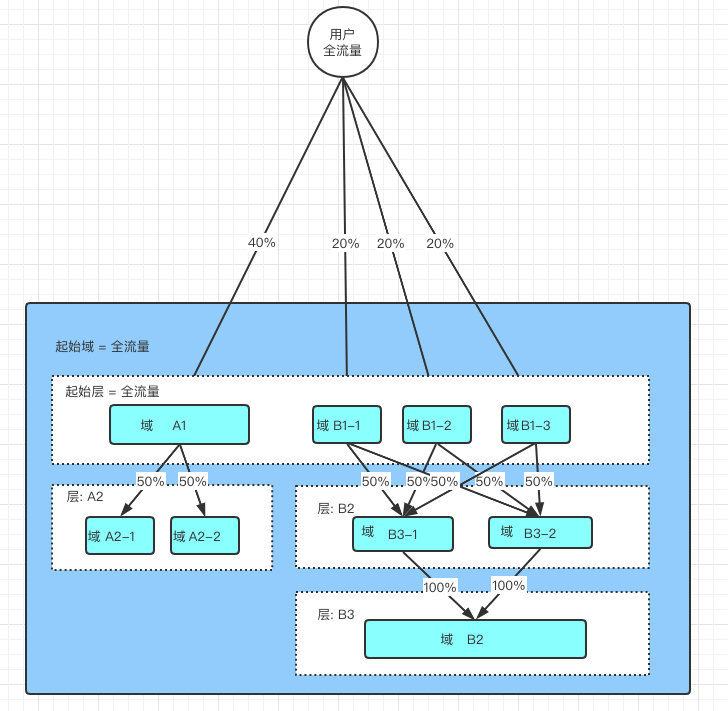
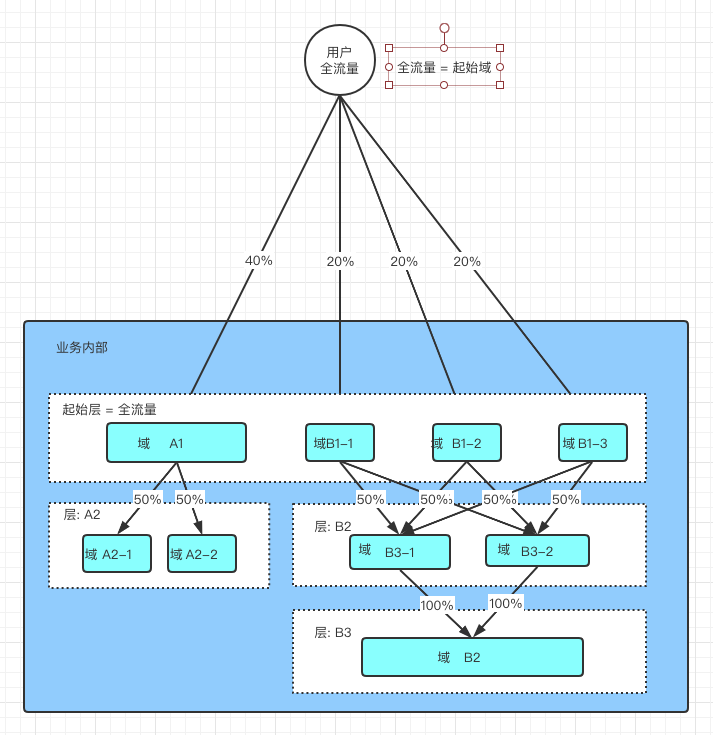
fix

diff --git a/README.md b/README.md
@@ -6,7 +6,7 @@
 
 # AB Test 设计概念说明
 1. Zone: 域，属于某一个层，分流后的一个流量块，起始域为全流量。域属于某一层，同一层的不同域流量互斥，且同一层的所有域的流量总和等于进入该层的全部流量。域横向切割一个层，为该层进行AB test测试的“因素”一个实验场景。
-2. Layer: 层，继承或者延伸某些域，数据流通的纵向的一个位置，在同一层中进行某一个“因素”的AB test实验。进入该层的流量来自于指定的“父域”。起始层的流量为全流量。
+2. Layer: 层，继承或者延伸某些域，数据流通的纵向的一个位置，在同一层中进行某一个“因素”的AB test实验。进入该层的流量来自于指定的“父域”。起始层的流量来自起始域，为全流量。
 3. 通过“域”和“层”的组合和嵌套，可以对流量进行任意的切割和组合，实现多“因素”的组合AB test。如下图：
 ![avatar](zone.png)
 
